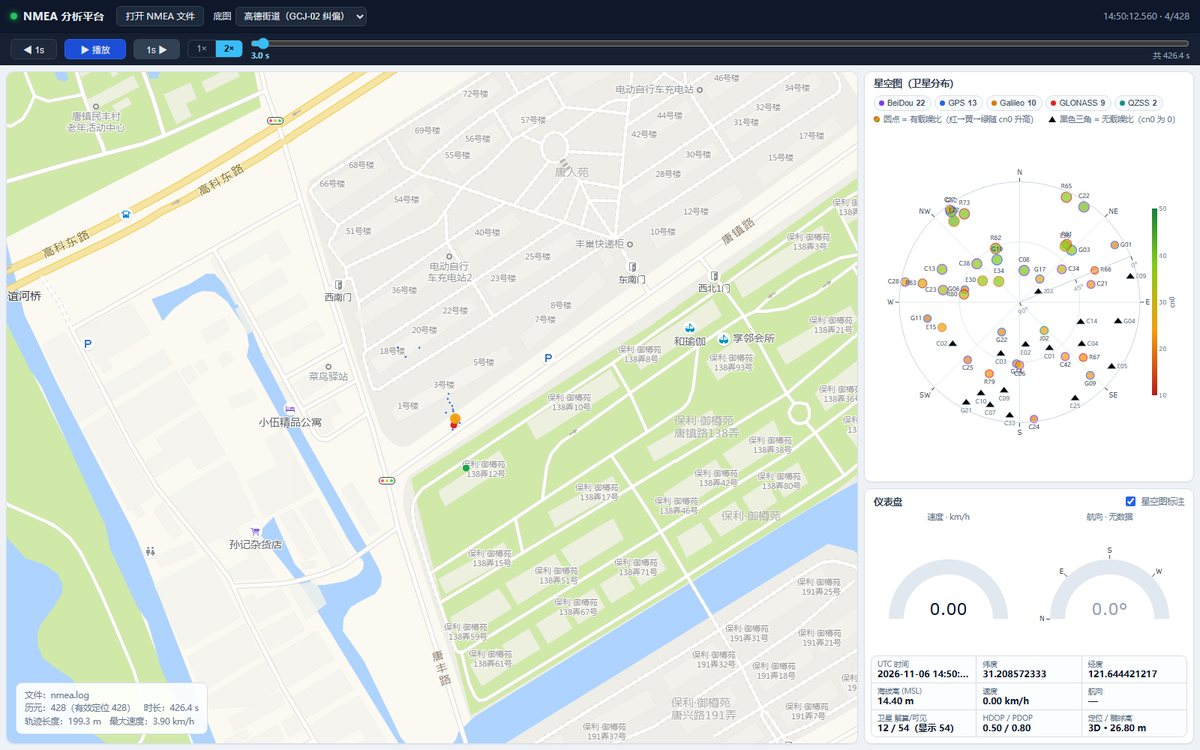
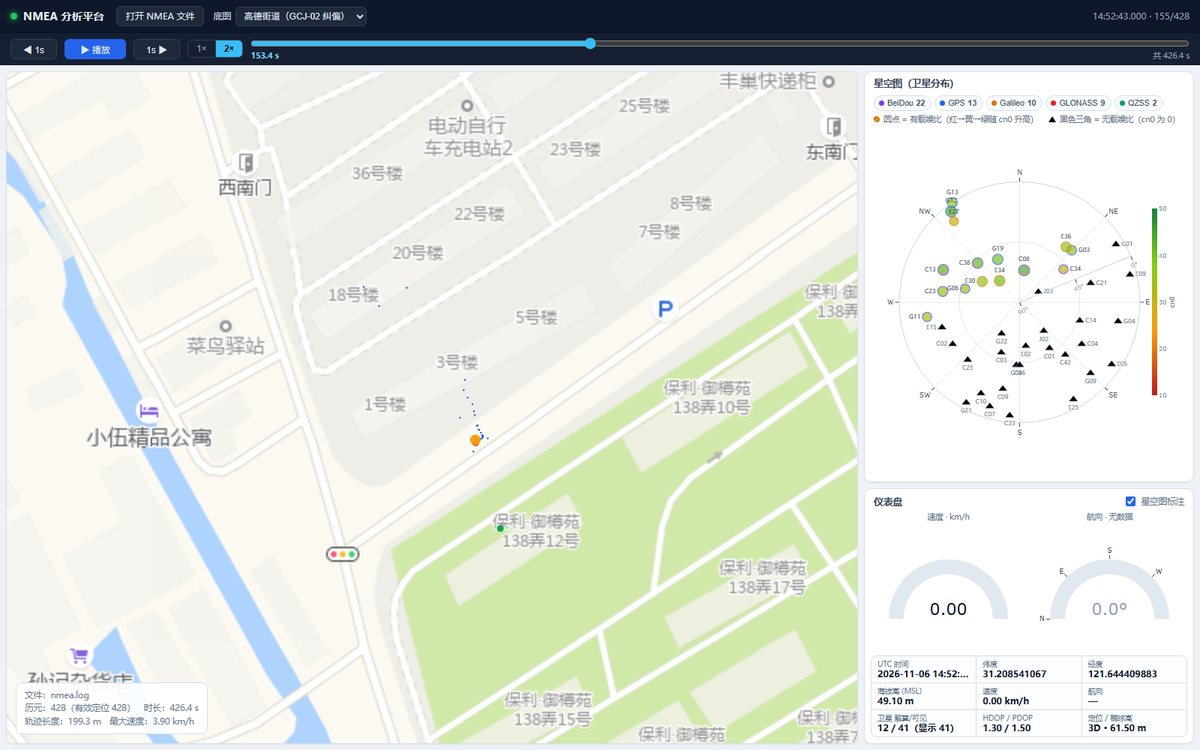
地图支持鼠标滚轮缩放与拖拽平移
- 开启 Plotly scrollZoom，地图可滚轮缩放（此前 mapbox 图默认关闭）
- 手动缩放/平移后的视野会被记住：拖动进度条、播放、切换底图都不再拉回初始位置
- 切换高德/影像底图时对视野中心做 WGS84 <-> GCJ-02 换算，位置不漂移
- 缩放上限按底图可用瓦片级别限制（影像 19、高德 18），超出会请求不存在的瓦片导致底图空白
- 瓦片图层不再限制 maxzoom，留出 overzoom 空间
- 默认视图比上限低一级，保证首次滚轮就能放大

diff --git a/web/app.js b/web/app.js
@@ -44,6 +44,7 @@ const COMPASS_POINTS = ['N', 'NNE', 'NE', 'ENE', 'E', 'ESE', 'SE', 'SSE',
 const PLOT_CONFIG = {
   responsive: true,
   displaylogo: false,
+  scrollZoom: true,
   modeBarButtonsToRemove: ['lasso2d', 'select2d', 'autoScale2d', 'toggleSpikelines'],
 };
 
@@ -72,7 +73,8 @@ function buildBaseStyle(source) {
     },
     layers: [
       { id: 'nmea-bg', type: 'background', paint: { 'background-color': '#f8fafc' } },
-      { id: 'nmea-basemap', type: 'raster', source: 'basemap', minzoom: 0, maxzoom: maxZoom },
+      // 图层不设 maxzoom：给 overzoom 留空间，否则放大到瓦片极限时整层会被隐藏
+      { id: 'nmea-basemap', type: 'raster', source: 'basemap', minzoom: 0 },
     ],
   };
   state.baseStyle = { source, style };
@@ -141,6 +143,31 @@ function wgs84ToGcj02(lat, lon) {
 function toDisplay(lat, lon) {
   if (lat === null || lon === null) return [null, null];
   return GCJ02_SOURCES.has(state.mapSource) ? wgs84ToGcj02(lat, lon) : [lat, lon];
+}
+
+/** GCJ-02 -> WGS84，用迭代逼近（正向变换没有解析逆）。 */
+function gcj02ToWgs84(lat, lon) {
+  if (outOfChina(lat, lon)) return [lat, lon];
+  let wgsLat = lat;
+  let wgsLon = lon;
+  for (let i = 0; i < 3; i += 1) {
+    const [gcjLat, gcjLon] = wgs84ToGcj02(wgsLat, wgsLon);
+    wgsLat += lat - gcjLat;
+    wgsLon += lon - gcjLon;
+  }
+  return [wgsLat, wgsLon];
+}
+
+/** 把保存下来的视野换算到当前底图的坐标系。 */
+function viewCenterFor(source) {
+  if (!state.view) return null;
+  const targetGcj = GCJ02_SOURCES.has(source);
+  const { center } = state.view;
+  if (Boolean(state.view.gcj) === targetGcj) return { ...center };
+  const [lat, lon] = targetGcj
+    ? wgs84ToGcj02(center.lat, center.lon)
+    : gcj02ToWgs84(center.lat, center.lon);
+  return { lat, lon };
 }
 
 /* ------------------------------------------------------------------ *
@@ -546,6 +573,7 @@ const state = {
   activeSystems: new Set(),
   showLabels: true,
   mapSource: 'arcgis-imagery',
+  view: null,          // 手动缩放/平移后的视野 { zoom, center }，重建地图时沿用
   mapReady: false,
   skyReady: false,
   gaugeReady: false,
@@ -579,6 +607,14 @@ function toast(message, isError = false) {  dom.toast.textContent = message;
 /* ------------------------------------------------------------------ *
  * 地图
  * ------------------------------------------------------------------ */
+/**
+ * 地图缩放上限：等于该底图能提供的最大瓦片级别。
+ * 超过这个级别，mapbox 会去请求不存在的瓦片，整张底图就变空白。
+ */
+function mapZoomLimit(source) {
+  return Math.max(2, TILE_MAX_ZOOM[source] || 19);
+}
+
 function mapLayout() {
   const layout = {
     margin: { l: 0, r: 0, t: 0, b: 0 },
@@ -590,6 +626,14 @@ function mapLayout() {
       zoom: 12,
     },
   };
+
+  // 用户手动缩放/平移过（或切换底图时保留了视野）就以当前视野为准
+  if (state.view) {
+    layout.mapbox.center = viewCenterFor(state.mapSource) || { ...state.view.center };
+    layout.mapbox.zoom = Math.min(state.view.zoom, mapZoomLimit(state.mapSource));
+    return layout;
+  }
+
   const bounds = state.summary && state.summary.bounds;
   if (!bounds) return layout;
 
@@ -604,11 +648,11 @@ function mapLayout() {
     lonSpan * 111320 * Math.cos((centerLat * Math.PI) / 180),
     5,
   );
-  const maxTileZoom = TILE_MAX_ZOOM[state.mapSource] || 19;
+  // source 的 maxzoom 限制了瓦片级别，地图 zoom 可以直接开到这一级。
+  // 默认视图比上限低一级，保证滚轮一开始就能往上放大。
+  const limit = mapZoomLimit(state.mapSource);
   const fitZoom = Math.log2((320 * 156543 * Math.cos((centerLat * Math.PI) / 180)) / meters);
-  // 声明的是 256px 瓦片，mapbox 在 zoom=z 时会取 z+1 级瓦片，
-  // 所以地图 zoom 要比瓦片级别的上限小一档，否则一个请求都发不出去
-  const zoom = Math.min(maxTileZoom - 1, Math.max(2, fitZoom));
+  const zoom = Math.min(limit - 1, Math.max(2, fitZoom));
 
   layout.mapbox.center = { lon: centerLon, lat: centerLat };
   layout.mapbox.zoom = zoom;
@@ -681,6 +725,7 @@ function renderMap(full = false) {
     const layout = mapLayout();
     Plotly.react('map', mapData(state.index), layout, PLOT_CONFIG);
     state.mapReady = true;
+    attachMapInteractions();
     return;
   }
   const current = state.epochs[state.index];
@@ -688,6 +733,39 @@ function renderMap(full = false) {
   const lon = currentLon !== null ? [currentLon] : [];
   const lat = currentLat !== null ? [currentLat] : [];
   Plotly.restyle('map', { lon: [lon], lat: [lat] }, [3]);
+}
+
+/**
+ * 记录用户在地图上滚轮缩放 / 拖拽平移后的视野，
+ * 以便切换底图或重建地图时不会把镜头拉回初始位置。
+ */
+function attachMapInteractions() {
+  const element = document.getElementById('map');
+  if (!element || typeof element.on !== 'function' || element.__viewBound) return;
+  element.__viewBound = true;
+  // 防止 relayout 纠正缩放的递归调用：第一次修正期间忽略后续事件
+  let clamping = false;
+  element.on('plotly_relayout', () => {
+    if (clamping) return;
+    const layout = element._fullLayout;
+    const mapbox = layout && layout.mapbox;
+    if (!mapbox || typeof mapbox.zoom !== 'number' || !mapbox.center) return;
+
+    // Plotly 不会把 maxzoom 传给 mapbox-gl，滚轮能一直放大到超出瓦片范围，
+    // 超过后底图会变空白，所以这里主动把镜头收回可用级别
+    const limit = mapZoomLimit(state.mapSource);
+    const clamped = Math.min(mapbox.zoom, limit);
+    state.view = {
+      zoom: clamped,
+      center: { lat: mapbox.center.lat, lon: mapbox.center.lon },
+      gcj: GCJ02_SOURCES.has(state.mapSource),
+    };
+    if (clamped < mapbox.zoom - 1e-6) {
+      clamping = true;
+      const release = () => { clamping = false; };
+      Plotly.relayout(element, 'mapbox.zoom', clamped).then(release, release);
+    }
+  });
 }
 
 /* ------------------------------------------------------------------ *
@@ -1168,6 +1246,7 @@ function loadText(text, name) {
   state.sourceName = name;
   state.index = 0;
   state.maxSpeedKmh = state.summary.maxSpeedKmh;
+  state.view = null;
   state.times = buildTimeAxis(parsed.epochs);
   state.duration = state.times.length ? state.times[state.times.length - 1] : 0;
 
@@ -1244,7 +1323,9 @@ function bindEvents() {
     // 直接改 raster layer 会撞上 mapbox 的 "Style is not done loading"，
     // 因此先拆掉地图容器，再在下一帧重建
     Plotly.purge('map');
-    document.getElementById('map').innerHTML = '';
+    const holder = document.getElementById('map');
+    holder.innerHTML = '';
+    holder.__viewBound = false;  // purge 后需要重新绑定 relayout 监听
     requestAnimationFrame(() => requestAnimationFrame(() => renderMap(true)));
   });
 

diff --git a/README.md b/README.md
@@ -104,6 +104,8 @@ python serve.py --port 9000
 页面布局：
 
 - **左侧地图**：轨迹画成点线（每个历元一个点），起点（绿）、终点（红）、当前位置（橙）。底图可在顶栏切换。
+  - 鼠标滚轮缩放、按住左键拖拽平移；缩放范围按底图可用瓦片级别限制（影像 19 级、高德 18 级）。
+  - 手动调整的视野会保留：拖动进度条、播放、切换底图都不会把镜头拉回初始位置；高德与影像之间切换时自动做 GCJ-02 换算，位置不漂移。
 - **右上星空图**：卫星按方位角（0°=北，顺时针）与仰角（圆心=天顶）投影到极坐标。
   - 圆点 = 有载噪比，颜色从红（低）经黄到绿（高），见右侧 cn0 色标；点的大小也随 cn0 变化。
   - 黑色三角 = 无载噪比（cn0 为 0 或缺失）。
